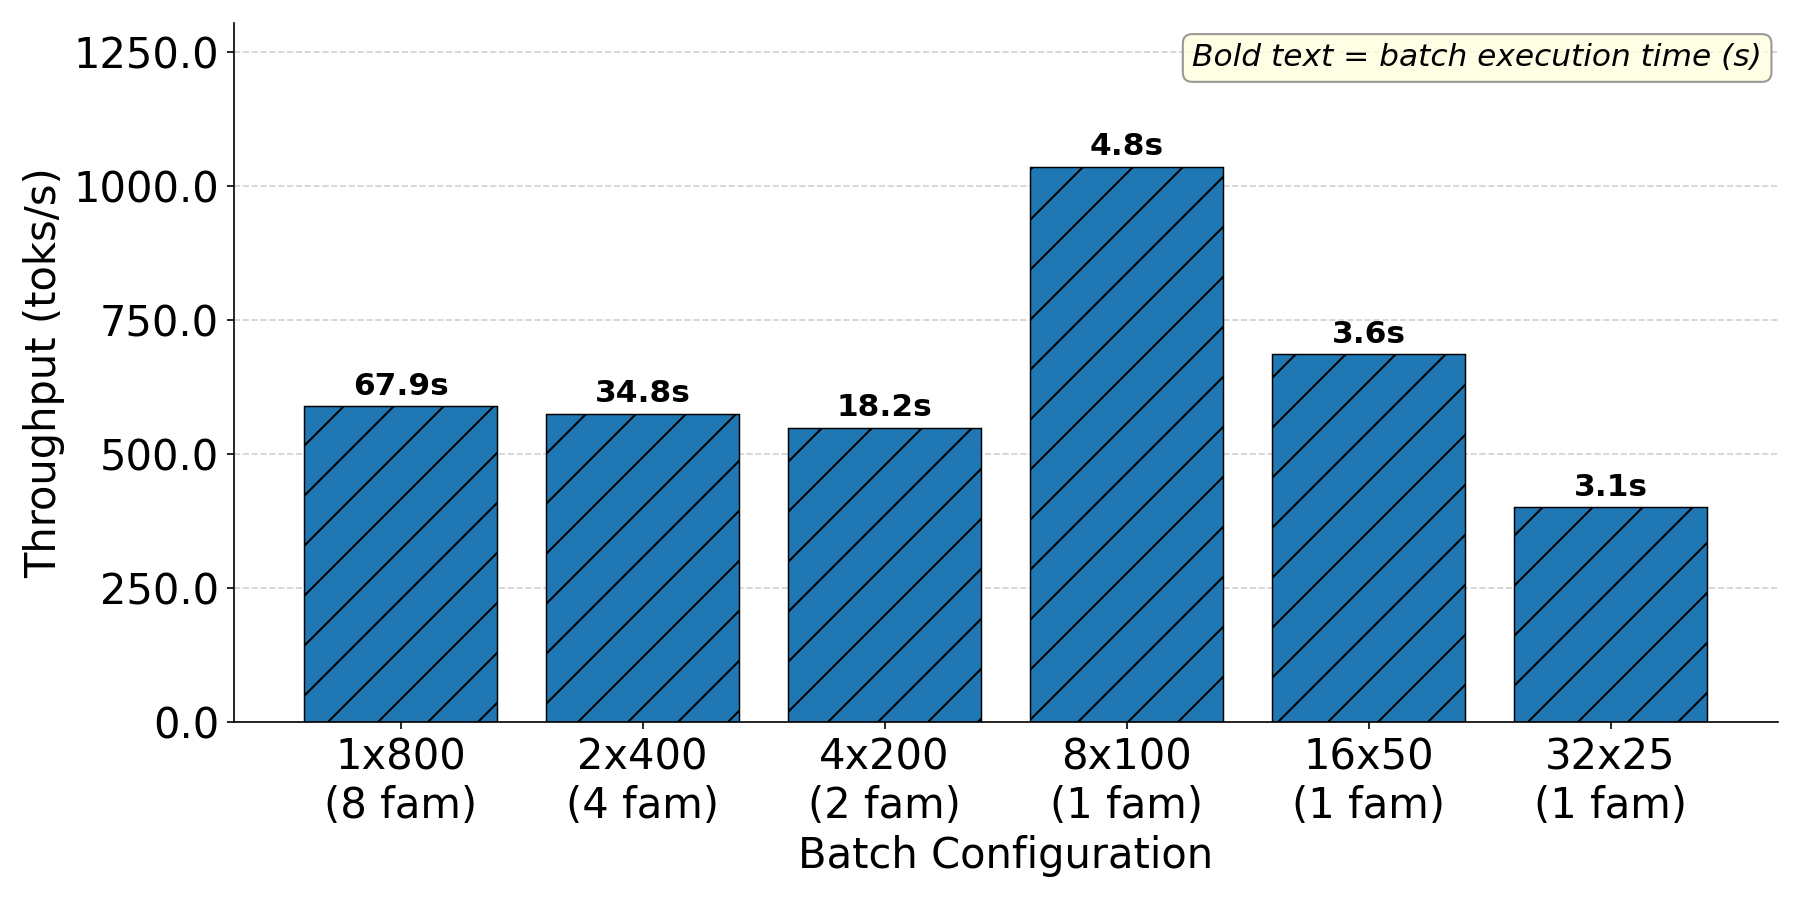
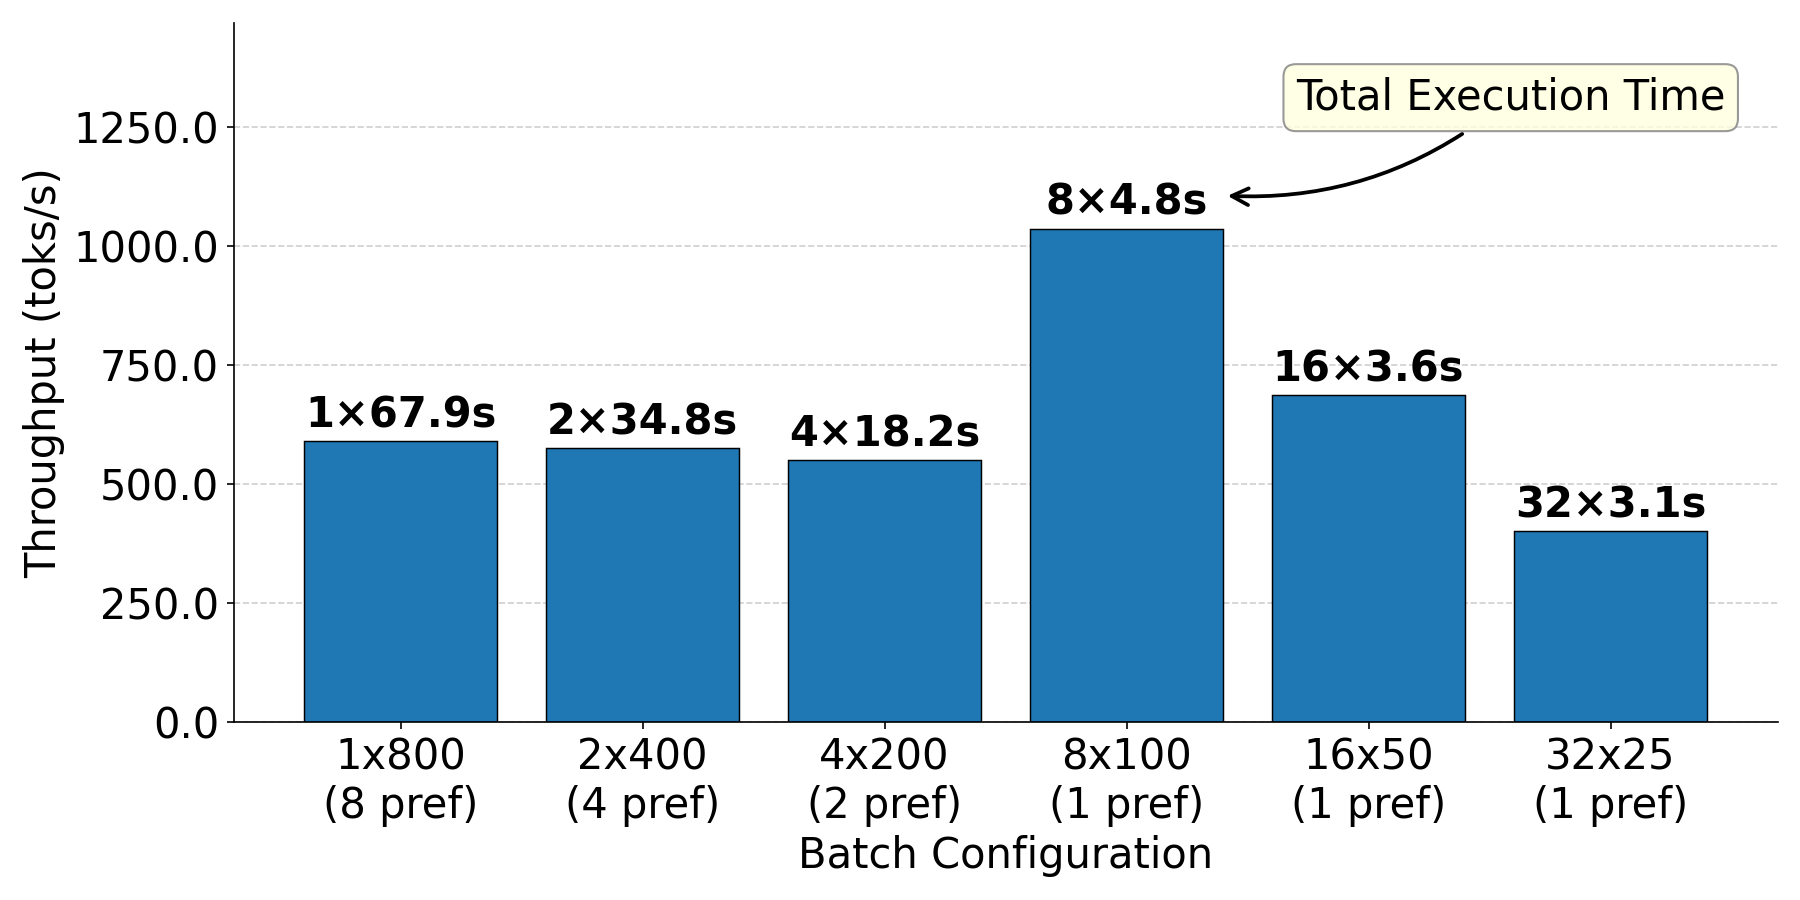
homo hetero plot intro changed

diff --git a/code/vllm/homo_hetero/plot_intro.py b/code/vllm/homo_hetero/plot_intro.py
@@ -15,23 +15,19 @@ os.makedirs(args.outdir, exist_ok=True)
 
 df = pd.read_csv(args.csv)
 df["avg_throughput_req_s"] = pd.to_numeric(df["avg_throughput_req_s"], errors="coerce")
-
-# Multiply throughput by decode tokens
 df["throughput_tok_s"] = df["avg_throughput_req_s"] * df["max_new_tokens"]
-
 df = df[df["max_new_tokens"] == 100].copy()
 df = df.sort_values(["max_new_tokens", "mode"]).reset_index(drop=True)
 
 SETTINGS = [
-    "1x800\n(8 fam)",
-    "2x400\n(4 fam)",
-    "4x200\n(2 fam)",
-    "8x100\n(1 fam)",
-    "16x50\n(1 fam)",
-    "32x25\n(1 fam)",
+    "1x800\n(8 pref)",
+    "2x400\n(4 pref)",
+    "4x200\n(2 pref)",
+    "8x100\n(1 pref)",
+    "16x50\n(1 pref)",
+    "32x25\n(1 pref)",
 ]
 
-# Batch sizes corresponding to each setting (total requests per batch)
 BATCH_SIZES = [800, 400, 200, 100, 50, 25]
 
 tokens = sorted(df["max_new_tokens"].unique())
@@ -43,15 +39,19 @@ bar_width = 0.8 / num_tokens
 
 fig, ax = plt.subplots(figsize=(12, 6))
 
+# We'll store one bar's info for the arrow annotation (first bar of first token group)
+arrow_bar = None
+arrow_label = None
+
 for i, tok in enumerate(tokens):
     subset = df[df["max_new_tokens"] == tok].sort_values("mode").reset_index(drop=True)
-
     if len(subset) != num_configs:
         print(f"[WARN] max_new_tokens={tok} has {len(subset)} rows (expected {num_configs}), skipping.")
         continue
 
     throughputs = subset["throughput_tok_s"].tolist()
     offset = (i - num_tokens / 2) * bar_width + bar_width / 2
+
     bars = ax.bar(
         x + offset,
         throughputs,
@@ -59,27 +59,32 @@ for i, tok in enumerate(tokens):
         label=f"{tok} tokens",
         edgecolor="black",
         linewidth=0.7,
-        hatch=hatches[i % len(hatches)]
     )
 
-    # Add execution time label on top of each bar
-    for bar, tp_tok_s, batch_size in zip(bars, throughputs, BATCH_SIZES):
+    for j, (bar, tp_tok_s, batch_size) in enumerate(zip(bars, throughputs, BATCH_SIZES)):
         if tp_tok_s > 0:
-            # tok/s → req/s (200 toks per request)
             tp_req_s = tp_tok_s / 100.0
-            # time to process full batch
             exec_time = batch_size / tp_req_s
-            label = f"{exec_time:.1f}s"
+            # multiplier: how many batches needed vs the largest batch (800)
+            multiplier = 800 // batch_size
+            label = f"{multiplier}×{exec_time:.1f}s"
         else:
             label = "N/A"
 
         ax.text(
             bar.get_x() + bar.get_width() / 2,
-            bar.get_height() + max(throughputs) * 0.01,  # small padding above bar
+            bar.get_height() + max(throughputs) * 0.01,
             label,
             ha='center', va='bottom',
-            fontsize=15, fontweight='bold', color='black',
+            fontsize=20, fontweight='bold', color='black',
         )
+
+        # Pick the 3rd bar (index 2, "4x200") of the first token group for the arrow
+        if i == 0 and j == 3 and tp_tok_s > 0:
+            arrow_bar = bar
+            arrow_label = label
+            arrow_bar_height = bar.get_height()
+            arrow_bar_x = bar.get_x() + bar.get_width()
 
 ax.set_xticks(x)
 ax.set_xticklabels(SETTINGS, fontsize=20)
@@ -91,16 +96,32 @@ ax.set_axisbelow(True)
 ax.spines["top"].set_visible(False)
 ax.spines["right"].set_visible(False)
 
-# Extra top margin so rotated labels don't get clipped
-ax.set_ylim(top=ax.get_ylim()[1] * 1.2)
-ax.text(
-    0.99, 0.97,
-    "Bold text = batch execution time (s)",
-    transform=ax.transAxes,
-    ha='right', va='top',
-    fontsize=15, fontstyle='italic', color='black',
-    bbox=dict(boxstyle='round,pad=0.3', facecolor='lightyellow', edgecolor='gray', alpha=0.8)
-)
+# Extra top margin so labels don't get clipped
+ax.set_ylim(top=ax.get_ylim()[1] * 1.35)
+
+# --- Arrow annotation pointing to the chosen bar's execution time label ---
+if arrow_bar is not None:
+    label_y = arrow_bar_height + max(df["throughput_tok_s"]) * 0.01
+    # Place annotation text above and to the right, with an arrow pointing down to the label
+    annotation_x = arrow_bar_x + 0.3
+    annotation_y = label_y + ax.get_ylim()[1] * 0.15
+
+    ax.annotate(
+        "Total Execution Time",
+        xy=(arrow_bar_x, label_y + ax.get_ylim()[1] * 0.04),  # tip of arrow: just above label
+        xytext=(annotation_x, annotation_y),                   # text position
+        fontsize=20,
+        color='black',
+        ha='left', va='bottom',
+        arrowprops=dict(
+            arrowstyle="->",
+            color='black',
+            lw=1.8,
+            connectionstyle="arc3,rad=-0.2",
+        ),
+        bbox=dict(boxstyle='round,pad=0.3', facecolor='lightyellow', edgecolor='gray', alpha=0.8),
+    )
+
 plt.tight_layout()
 out_path = os.path.join(args.outdir, "prefill_decode_homo_hetero_grouped_throughput_tok100.png")
 plt.savefig(out_path, dpi=150)
